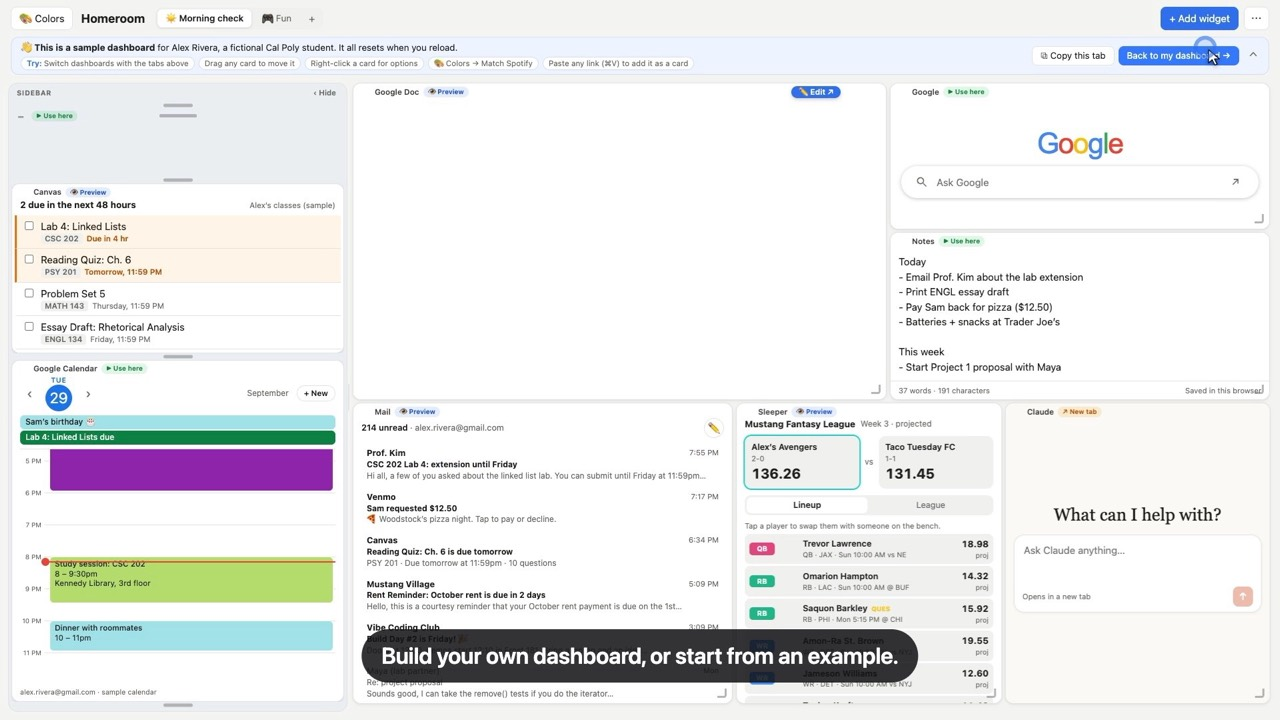
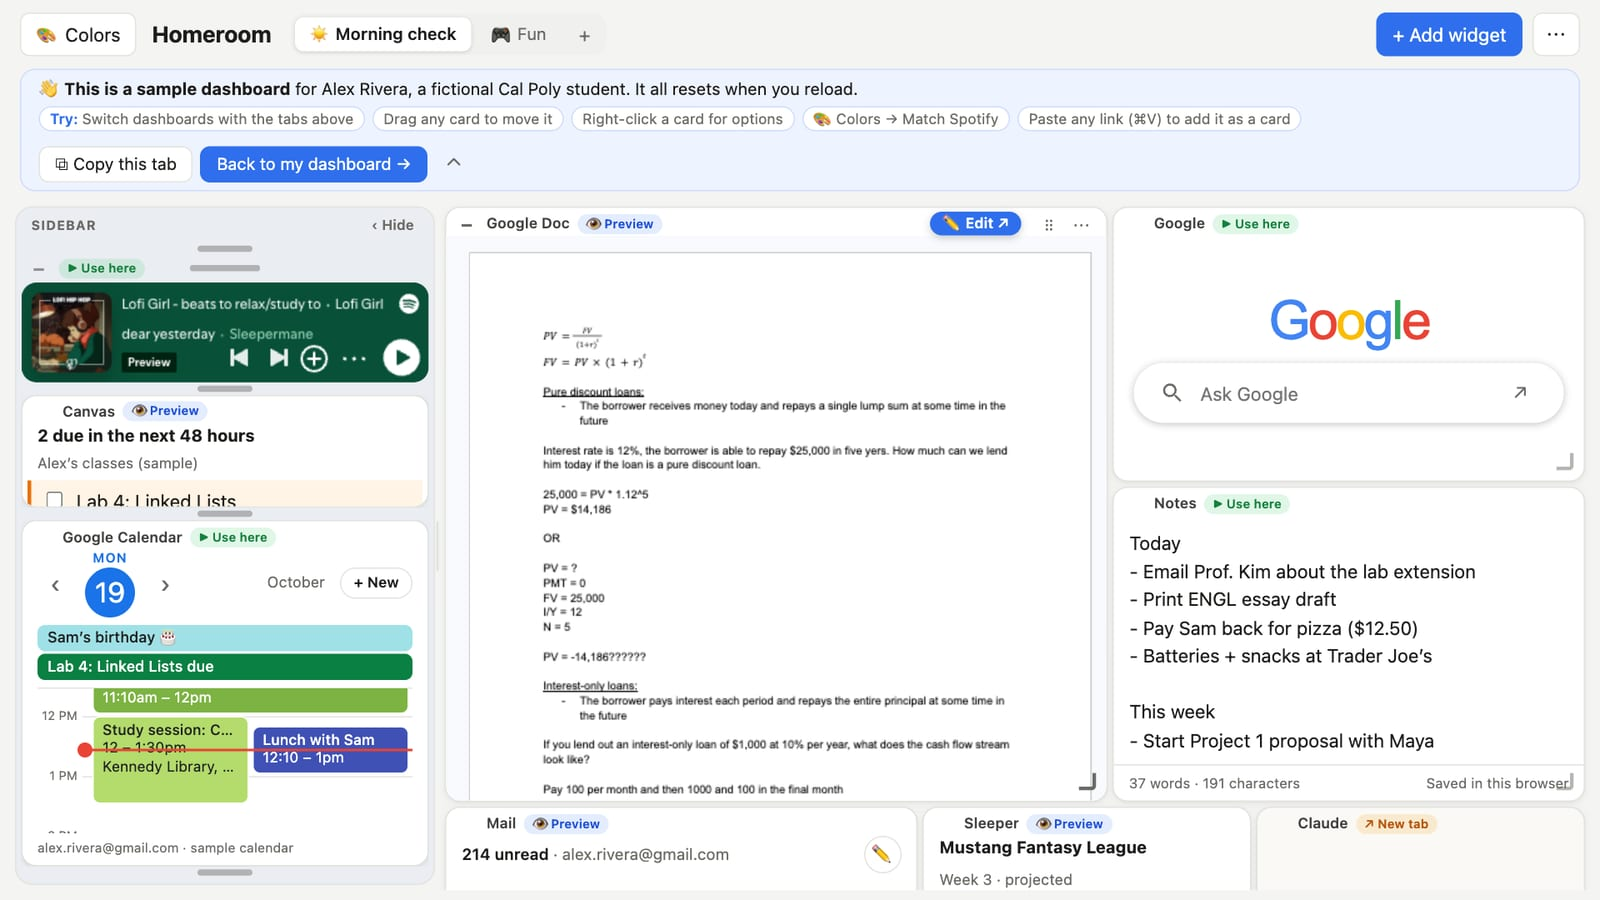
Shorter Hold This Thought intro; Try the app only where the phone mockup is beside it; project videos skip their title card the first time and get app thumbnails

diff --git a/index.html b/index.html
@@ -491,6 +491,8 @@ dd{margin:0;font-size:19px;font-weight:700;letter-spacing:-.01em;font-variant-nu
 .htt-saved svg{flex:none;width:20px;height:20px;fill:#141a17}
 .try-result:has(.htt-saved){background:#9eeb1a!important;border-radius:99px!important}
 .showcase .try-note{margin:14px 0 0;font-size:12.5px;line-height:1.55;color:var(--inv-muted);max-width:none}
+/* Phones: the mockup has scrolled away by the time you reach the box, so it goes; the case study has the reader to try */
+@media(max-width:700px){.sc-try{display:none}}
 /* On a phone the mockup has scrolled away by the time you type, so the card shows right under the field */
 @media(max-width:900px){.try-result:not(:empty){display:block;margin-top:14px;padding:16px;border-radius:var(--r-md);background:#fff;color:#141414;font-family:Manrope,system-ui,sans-serif;font-size:15px}}
 
@@ -1019,7 +1021,7 @@ footer a{text-decoration:none}
     <div class="sc-copy">
       <span class="sc-label mo"><img class="sc-icon" src="hold-this-thought-logo-transparent.webp" alt="" width="40" height="40">Hold This Thought / Active build</span>
       <h4>Hold This Thought</h4>
-      <p>Building a native Swift iOS reminder app that helps people capture passing thoughts before they disappear. The app turns spoken or typed ideas into helpful prompts based on time, location, calendar events, and saved places. I lead product direction, interface design, and iOS development, from concept testing through live iPhone demos.</p>
+      <p>A native iOS app that turns spoken or typed thoughts into reminders that go off at the right time, the right place, or with the right people. I lead product, design, and iOS development.</p>
       <div class="pills"><span class="pill">Swift</span><span class="pill">Product</span><span class="pill">UX</span><span class="pill">iOS</span></div>
       <button class="btn case-open sc-case" type="button" data-case="holdthisthought">CASE STUDY + PARSER <span class="arr">→</span></button>
       <div class="sc-steps" role="tablist" aria-label="How Hold This Thought works">
@@ -1136,7 +1138,7 @@ footer a{text-decoration:none}
   </div>
   <div class="proj-grid single">
     <article class="proj reveal" id="homeroom">
-      <div class="shot"><video class="demo" src="homeroom-demo.mp4" poster="homeroom-demo-poster.jpg" muted loop playsinline controls preload="none" aria-label="Homeroom demo video"></video></div>
+      <div class="shot"><video class="demo" src="homeroom-demo.mp4" data-start="7.5" poster="homeroom-demo-poster.jpg" muted loop playsinline controls preload="none" aria-label="Homeroom demo video"></video></div>
       <div class="proj-body">
         <span class="mo">Build Day #1 / Live</span>
         <h4>Homeroom</h4>
@@ -1150,7 +1152,7 @@ footer a{text-decoration:none}
       </div>
     </article>
     <article class="proj reveal" id="whenworks">
-      <div class="shot"><video class="demo" src="whenworks-demo.mp4" poster="whenworks-demo-poster.jpg" muted loop playsinline controls preload="none" aria-label="WhenWorks demo video"></video></div>
+      <div class="shot"><video class="demo" src="whenworks-demo.mp4" data-start="6.8" poster="whenworks-demo-poster.jpg" muted loop playsinline controls preload="none" aria-label="WhenWorks demo video"></video></div>
       <div class="proj-body">
         <span class="mo">Side project / Live</span>
         <h4>WhenWorks</h4>
@@ -1519,10 +1521,20 @@ footer a{text-decoration:none}
   function revealVisible() { document.querySelectorAll('.reveal').forEach(el => revObs.observe(el)); }
   if (reduce) document.querySelectorAll('.reveal').forEach(el => el.classList.add('in'));
 
-  // Demo videos: play muted while on screen
+  // Demo videos: play muted while on screen. The first time, skip the dark title card (data-start)
+  // so the app is what you see; later loops play the whole thing.
   document.querySelectorAll('video.demo').forEach(v => {
+    let started = false;
     new IntersectionObserver(([en]) => {
-      if (en.isIntersecting && !reduce) { v.preload = 'auto'; v.play().catch(() => {}); }
+      if (en.isIntersecting && !reduce) {
+        v.preload = 'auto';
+        if (!started) {
+          started = true;
+          const skip = () => { if (v.currentTime < +v.dataset.start) v.currentTime = +v.dataset.start; };
+          v.readyState >= 1 ? skip() : v.addEventListener('loadedmetadata', skip, { once: true });
+        }
+        v.play().catch(() => {});
+      }
       else if (!en.isIntersecting) v.pause();
     }, { threshold: .4 }).observe(v);
   });
